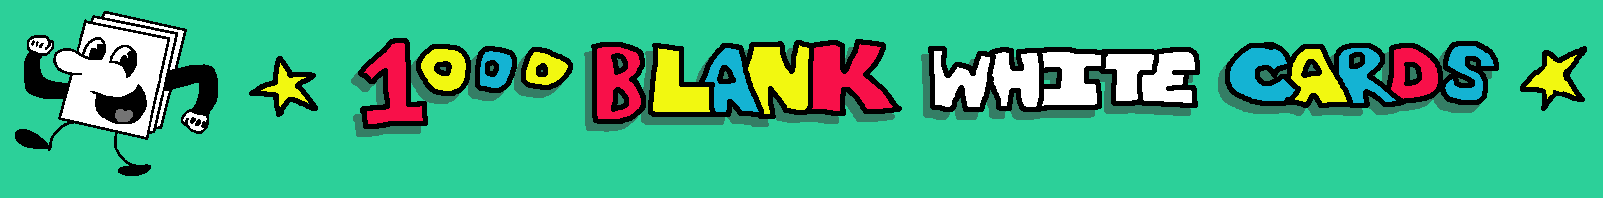
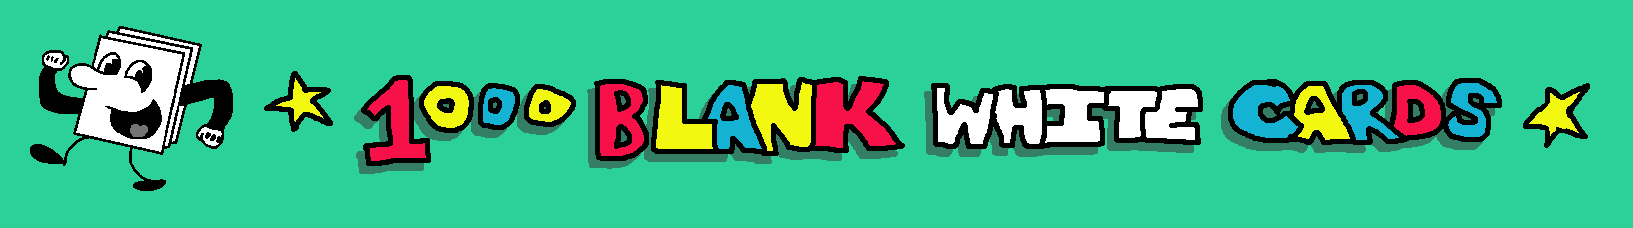
better titlebar

diff --git a/client/src/components/bwc/BwcGame.tsx b/client/src/components/bwc/BwcGame.tsx
@@ -30,7 +30,7 @@ function BwcPlaying({ state, playerId, send }: { state: BwcClientPlayingState; p
   return (
     <div className="bwc-page">
       <div className="bwc-topbar">
-        <img src={`${base}1kbwc.png`} alt="1000 Blank White Cards" className="bwc-topbar-logo" />
+        <img src={`${base}1kbwc-titlebar.png`} alt="1000 Blank White Cards" className="bwc-topbar-logo" />
       </div>
       <div className="bwc-body">
         <div className="bwc-main">

diff --git a/client/src/styles/main.css b/client/src/styles/main.css
@@ -975,11 +975,11 @@ button:disabled {
   flex-shrink: 0;
   display: flex;
   align-items: center;
-  padding: 0 1rem;
+  padding: 0;
 }
 
 .bwc-topbar-logo {
-  height: 2rem;
+  height: 3rem;
   width: auto;
 }
 
